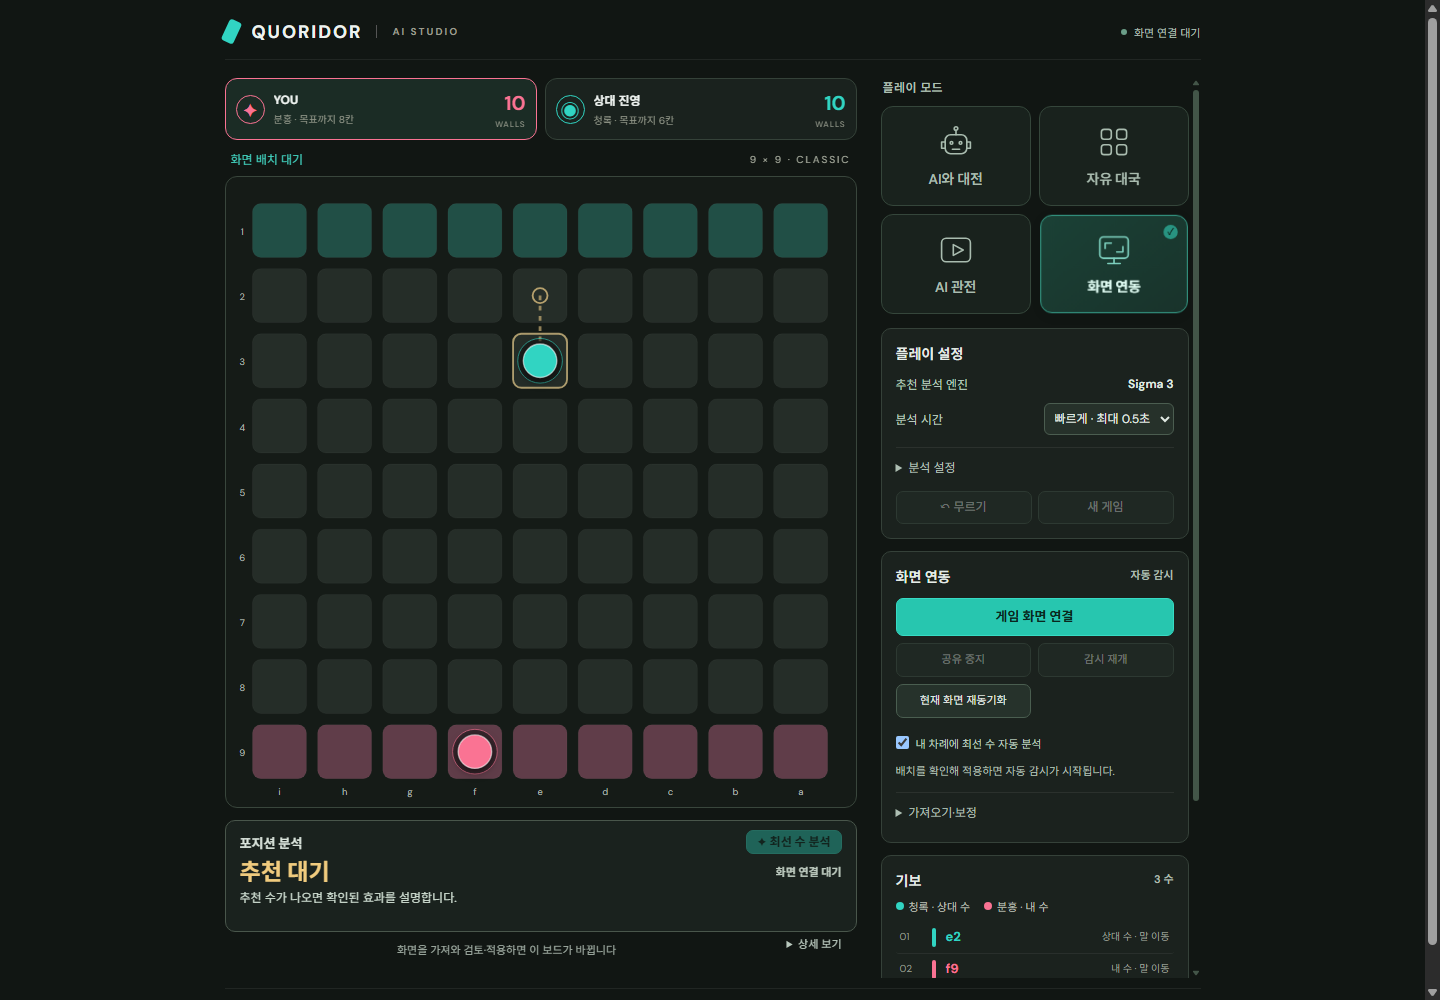
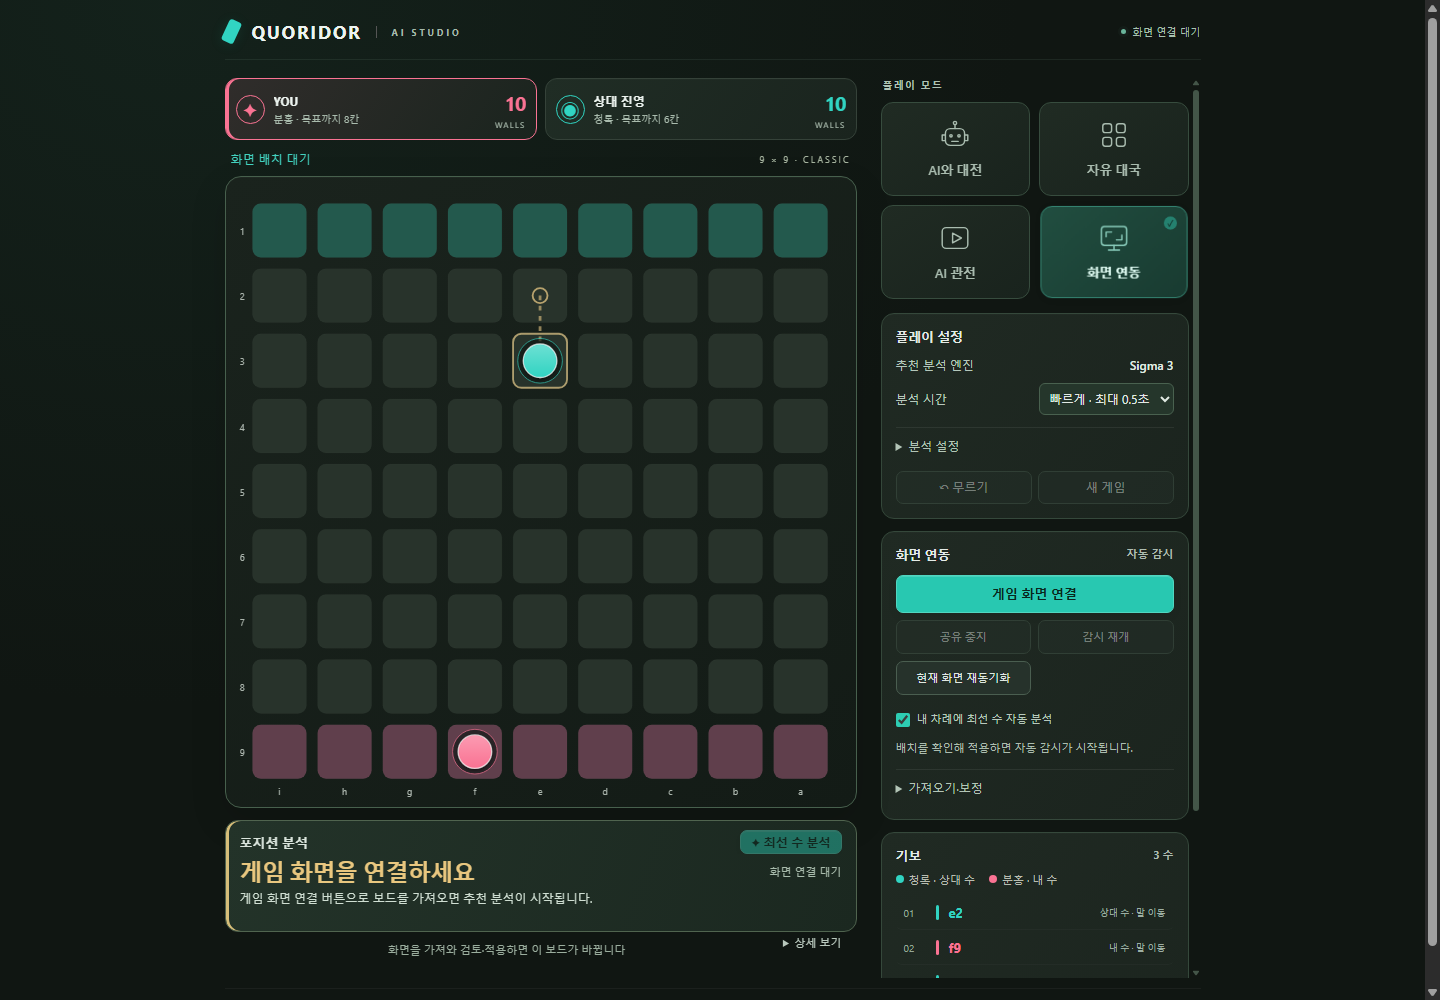
디자인 개선: 보드와 패널 정돈 및 대국 종료 복기 안내 통합

diff --git a/workspace.css b/workspace.css
@@ -93,3 +93,32 @@ aside #history .history-entry{font-size:13px;min-height:32px}aside .panel-title 
 @media(max-width:720px){.mode-picker{grid-column:1/-1;margin-bottom:2px}#app-status{display:none}.brand span{display:none}}
 @media(prefers-reduced-motion:reduce){.mode-grid .mode-card,.mode-card .mode-check{animation:none!important;transition:none!important}.mode-grid .mode-card:hover,.mode-grid .mode-card:active{transform:none}}
 
+/* Studio finish: restrained surfaces, readable hierarchy, stable board geometry. */
+:root{--studio-ink:#edf4f0;--studio-muted:#a3b5aa;--studio-line:#34473d;--studio-gold:#e9c77f;font-family:Inter,"Segoe UI","Malgun Gothic",sans-serif;font-synthesis:none}
+body{background:radial-gradient(ellipse at 12% 0%,#19332966,transparent 48%),#101612;color:var(--studio-ink)}
+header{border-bottom-color:#a5d1b817}.brand{font-weight:750;letter-spacing:1.7px}.brand i{box-shadow:0 2px 14px #29cbb31a}.brand span{color:#a4b9aa;font-size:9px;letter-spacing:2.8px}
+#app-status{display:flex;align-items:center;gap:7px;color:#a9c1b1;font-size:10px;letter-spacing:.3px}#app-status:before{content:"";width:5px;height:5px;border-radius:50%;background:#69b49a;box-shadow:0 0 0 3px #69b49a0c}
+#board{background:linear-gradient(145deg,#1a231d,#131b16);border:1px solid #47604d;box-shadow:inset 0 1px 0 #ffffff07,0 14px 36px #00000020;border-radius:16px}
+.cell{fill:#28332b;stroke:#ffffff08;stroke-width:.7}.cell.row0{fill:#603f4c}.cell.row8{fill:#23594d}
+.pawn{filter:url(#pawn-depth);stroke:#ffffffb3;stroke-width:1.4}.pawn-ring{opacity:.65;stroke-width:1;fill:#0d1714}.pawn-sheen{pointer-events:none}
+.wall{stroke:#ffffff24;stroke-width:.65}.wall.recommend,.wall.last-wall{stroke:var(--studio-gold);stroke-width:2.5}.move-dot{opacity:.72}.last-trail{opacity:.55}
+#players .player{border-radius:12px;background:linear-gradient(125deg,#202d25,#1a241e);box-shadow:inset 0 1px #ffffff04}
+#players .player.active{background:linear-gradient(125deg,color-mix(in srgb,var(--accent) 11%,#17241e),#1a241e);box-shadow:inset 3px 0 var(--accent)}
+#players .player small{color:#a9bbad}#players .walls-count b{font-variant-numeric:tabular-nums;letter-spacing:-1px}#players .walls-count small{letter-spacing:1.3px}
+.board-heading{letter-spacing:.25px}.board-heading>span:last-child{font-size:9px;letter-spacing:2px;color:#a6b49f}
+aside .panel{background:linear-gradient(130deg,#202a23,#1b241e);border-color:#35483b;border-radius:13px;box-shadow:inset 0 1px #ffffff04}
+aside .panel-title{font-size:13px;font-weight:700;letter-spacing:-.2px}aside label{color:#b8c9bd;line-height:1.5}aside label>span{color:#a7baab}
+button,select{transition:background-color 160ms,border-color 160ms,box-shadow 160ms}button:not(:disabled):active{box-shadow:inset 0 2px 5px #0003}button:disabled{opacity:.45}select{background:#25362b;border-color:#49614f}
+.primary{background:#28c8b1;border-color:#51d6c0;box-shadow:inset 0 1px #ffffff25,0 3px 10px #0001;font-weight:650}.primary:hover{background:#55ddc6}
+.mode-picker-title{font-size:10px;letter-spacing:1.3px;color:#b0c3b5}.mode-grid{gap:9px}.mode-grid .mode-card{height:94px;background:linear-gradient(145deg,#202b23,#19231d);border-color:#374c3e}.mode-grid .mode-card.is-selected{background:linear-gradient(140deg,#214e40,#193b31);box-shadow:inset 0 1px #ffffff0a,0 3px 16px #0002}.mode-card .mode-label{font-size:13px}.mode-card svg{width:32px;height:32px;flex-basis:32px}
+.arena>.analysis-panel{border-radius:13px;background:linear-gradient(110deg,#233329,#1b2820);border-color:#50644f;box-shadow:inset 3px 0 #d7be79}
+.analysis-panel #analysis-choice{color:var(--studio-gold);letter-spacing:-.6px;font-weight:750}.analysis-panel #analysis-reason{color:#d0dfd3;line-height:16px}.analysis-panel .panel-title{font-size:11px;color:#b9cabd;letter-spacing:.3px}.analysis-panel #wait-label{font-weight:500;color:#a9bcad}
+.analysis-panel[data-phase=terminal]{background:linear-gradient(115deg,#2f3d27,#1e2a20);border-color:#76895a;box-shadow:inset 3px 0 #b8d395}.analysis-panel[data-phase=terminal] #analysis-choice{color:#d9e9b8}
+.analysis-panel[data-phase=thinking] .panel-title:before{content:"";display:inline-block;width:5px;height:5px;margin-right:7px;border-radius:50%;background:#48d6bd;animation:studio-thinking 1.4s ease-in-out infinite}
+#history .history-entry{border-bottom-color:#ffffff07;border-radius:6px;margin:2px 0;padding:7px 8px;transition:background-color 140ms}#history .history-entry:hover{background:#b7dbc00b}#history .history-entry.review-active{background:#2e4a3c;outline:1px solid #6caa87;outline-offset:-1px;box-shadow:inset 3px 0 #71d3b0}#history .history-entry .history-side-bar{width:3px;flex-basis:3px;height:15px}#history .history-entry small{font-size:9px;color:#9eafa3}#history .history-entry span{font-size:10px;color:#96a798}
+#review-controls .button-row{gap:0}#review-controls .button-row button{border-radius:0}#review-controls .button-row button:first-child{border-radius:7px 0 0 7px}#review-controls .button-row button:last-child{border-radius:0 7px 7px 0}
+input[type=checkbox]{accent-color:#2dcdb3;width:14px;height:14px}summary{color:#b3c5b7}.instruction{color:#9bae9e;line-height:1.6}footer{color:#a2ae94;border-top-color:#ffffff0c}
+@keyframes studio-thinking{50%{opacity:.35}}
+@media(max-width:720px){.analysis-panel #wait-label{max-width:125px;font-size:9px}.mode-grid .mode-card{height:90px}#app-status{display:none}}
+@media(prefers-reduced-motion:reduce){*,*:before,*:after{animation:none!important;transition:none!important;scroll-behavior:auto!important}}
+

diff --git a/src/app.js b/src/app.js
@@ -131,7 +131,7 @@ const liveState=()=>state;
 function drawBoard(){
   const state=reviewPly===null?liveState():reviewPly===records.length?liveState():past[reviewPly];
   const can=reviewPly===null&&human()&&!busy&&state.winner===null,options=can?moves(state):[],last=reviewPly===null?records.at(-1):records[reviewPly-1];
-  let svg='<svg viewBox="0 0 664 664" role="img" aria-label="쿼리도 보드">';
+  let svg='<svg viewBox="0 0 664 664" role="img" aria-label="쿼리도 보드"><defs><filter id="pawn-depth" x="-40%" y="-40%" width="180%" height="180%"><feDropShadow dx="0" dy="2" stdDeviation="2" flood-opacity=".4"/></filter><linearGradient id="pawn-light" x2="0" y2="1"><stop stop-color="#fff" stop-opacity=".28"/><stop offset="1" stop-color="#fff" stop-opacity="0"/></linearGradient></defs>';
   for(let y=0;y<9;y++)for(let x=0;x<9;x++){
     svg+=`<rect class="cell row${flipped()?8-y:y}" x="${22+x*70}" y="${22+y*70}" width="58" height="58" rx="9"/>`;
     if(x===0)svg+=`<text x="11" y="${56+y*70}">${flipped()?y+1:9-y}</text>`;
@@ -143,7 +143,7 @@ function drawBoard(){
   }
   for(const move of options){const p=viewPosition(move);svg+=`<circle class="move-dot" cx="${51+p.x*70}" cy="${51+p.y*70}" r="9"/>`;}
   state.walls.forEach((w,i)=>{svg+=wallSvg(w,last?.type==='wall'&&i===state.walls.length-1?'last-wall':'');});
-  state.p.forEach((position,t)=>{const p=viewPosition(position);svg+=`<circle class="pawn-ring" cx="${51+p.x*70}" cy="${51+p.y*70}" r="24" stroke="${colors[t]}"/><circle class="pawn" cx="${51+p.x*70}" cy="${51+p.y*70}" r="18" fill="${colors[t]}"/>`;});
+  state.p.forEach((position,t)=>{const p=viewPosition(position);svg+=`<circle class="pawn-ring" cx="${51+p.x*70}" cy="${51+p.y*70}" r="24" stroke="${colors[t]}"/><circle class="pawn" cx="${51+p.x*70}" cy="${51+p.y*70}" r="18" fill="${colors[t]}"/><circle class="pawn-sheen" cx="${51+p.x*70}" cy="${51+p.y*70}" r="17" fill="url(#pawn-light)"/>`;});
   const advice=reviewPly===null?hint:reviewHint;
   if(advice){if(advice.type==='wall')svg+=wallSvg({...advice,owner:state.turn},'recommend');else{const p=viewPosition(advice);svg+=`<circle class="recommend" cx="${51+p.x*70}" cy="${51+p.y*70}" r="23" fill="none" stroke="#f4d18a" stroke-width="3"/>`;}}
   $('#board').innerHTML=svg+'<g id="ghost"></g></svg>';
@@ -166,7 +166,7 @@ function render(){
   $('#watch-step').disabled=watcher.running||busy||!!outcome;
   for(const t of [0,1]){$(`#watch-cores-${t}`).disabled=false;}
   $('#instruction').textContent=watch?'두 AI의 대국을 관전합니다 · 금색 표시는 방금 둔 수입니다':'점을 클릭해 이동 · 칸 사이에 커서를 대고 클릭해 벽 설치';
-  $('#result').hidden=!outcome;
+  $('#result').hidden=true;
   if(outcome){$('#result').textContent=outcome.type==='win'?`${names[outcome.winner]} 승리 · ${records.length}수`:`관전 무승부 · ${outcome.reason==='repetition'?'같은 배치가 3회 반복되었습니다':'관전 최대 300수에 도달했습니다'}`;}
   drawBoard();
   const shownState=reviewPly===null?state:reviewPly===records.length?state:past[reviewPly];
@@ -196,6 +196,17 @@ function render(){
     $('#instruction').textContent=!baseState?'화면을 가져와 검토·적용하면 이 보드가 바뀝니다':screenCapture?.active?'자동 감시 중 · 안정된 합법 수를 반영하고 내 차례에 추천합니다':'자동 감시는 일시정지 상태입니다 · 화면 공유 후 감시 재개를 누르세요';
   }
   $('#hint').textContent=reviewPly===null?'✦ 최선 수 분석':'↻ 다시 분석';
+  const terminal=reviewPly===null&&outcome;
+  $('#wait-advice').dataset.phase=terminal?'terminal':busy?'thinking':reviewPly!==null?'review':hint?'ready':'idle';
+  if(terminal){
+    $('#wait-advice').dataset.level='done';$('#analysis-choice').textContent=outcome.type==='win'?`${names[outcome.winner]} 승리 · ${records.length}수`:'관전 종료 · 무승부';
+    $('#wait-label').textContent='대국 종료';$('#analysis-reason').textContent='기보에서 수를 선택하면 그 시점의 추천과 이유를 확인할 수 있습니다.';
+    $('#depth').textContent='';$('#wait-reason').textContent='기보를 선택해 복기하세요.';$('#wait-timing').textContent='';$('#position-verdict').textContent='';$('#advice-change').hidden=true;$('#variable-controls').hidden=true;
+    $('#instruction').textContent='대국이 끝났습니다 · 오른쪽 기보에서 중요한 순간을 다시 살펴보세요';
+  }else if(!hint&&reviewPly===null&&!busy){
+    $('#analysis-choice').textContent=screen&&!baseState?'게임 화면을 연결하세요':watch?'AI 대국 관전':human()?'다음 한 수를 살펴보세요':'상대의 차례';
+    $('#analysis-reason').textContent=screen&&!baseState?'게임 화면 연결 버튼으로 보드를 가져오면 추천 분석이 시작됩니다.':watch?'두 엔진의 선택을 관찰하거나 기보를 선택해 복기할 수 있습니다.':human()?'최선 수 분석을 누르면 추천 위치와 선택 이유를 알려드립니다.':'상대의 수가 반영되면 현재 배치에서 분석할 수 있습니다.';
+  }
   if(reviewPly!==null){
    const snapshot=reviewPly===records.length?state:past[reviewPly];
    $('#hint').disabled=busy||snapshot.winner!==null;

diff --git a/docs/PORTFOLIO.md b/docs/PORTFOLIO.md
@@ -1,5 +1,15 @@
 # 포트폴리오 시연 가이드
 
+## 디자인 개선
+
+보드의 청록·분홍은 진영을, 금색은 추천 위치를 나타냅니다. 패널의 명암과 글자 크기로 기능의 위계를 구분하고, 카드와 기보의 선택 상태는 색·테두리·표시를 함께 사용합니다. 보드와 분석 영역은 상태 문구가 달라져도 위치와 높이가 유지됩니다.
+
+대국 종료 시 추천 대기를 승패 결과와 복기 안내로 대체했습니다. 종료 배너의 중복을 제거하고, 모션 감소 설정과 키보드 포커스도 지원합니다. UI 검증은 가상 캡처와 테스트 엔진으로 진행하며 실제 엔진의 실력을 검증하는 자료와 구분합니다.
+
+- [데스크톱 화면](images/portfolio-desktop.png)
+- [대국 종료 화면](images/portfolio-terminal.png)
+- [모바일 화면](images/portfolio-mobile.png)
+
 ## 시연 순서
 
 1. 앱을 실행하고 2×2 모드 카드의 선택 상태를 보여줍니다.

diff --git a/AGENTS.md b/AGENTS.md
@@ -1,0 +1,5 @@
+# 작업 완료와 백업
+
+- 사용자는 작업 완료 후 한국어로 직관적인 커밋 메시지를 작성하고 `git push`하여 백업하기를 요청했습니다.
+- 변경 범위를 확인하고 필요한 검증을 마친 뒤 커밋·push합니다. 비밀정보, 로컬 실행 파일과 임시 산출물은 포함하지 않습니다.
+- push 실패 시 성공으로 보고하지 않고 원인을 알립니다.
